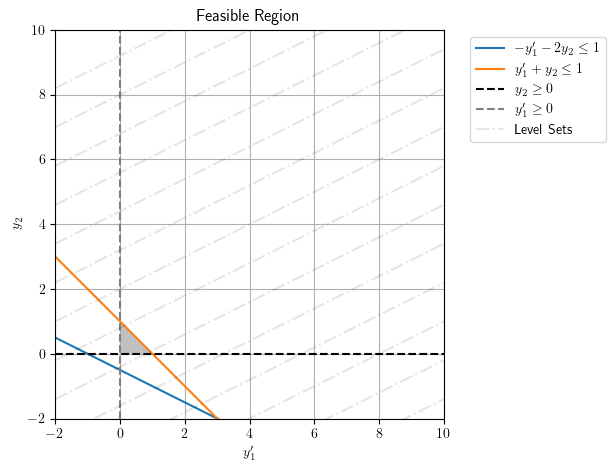
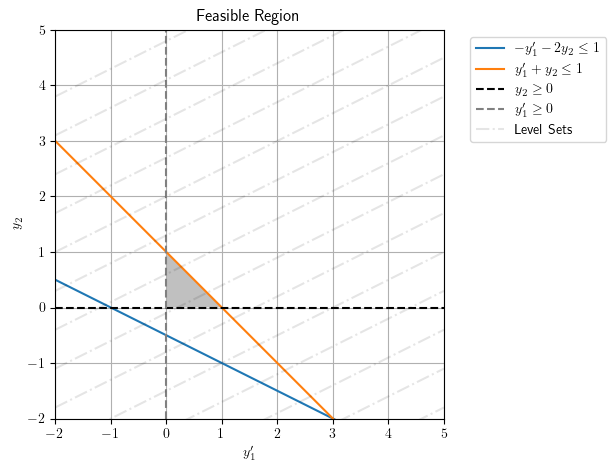
MATH5420: Completed Homework 5.

diff --git a/2023/spring/MATH5420_Optimization/Homework5/problem_5.tex b/2023/spring/MATH5420_Optimization/Homework5/problem_5.tex
@@ -14,7 +14,12 @@ duality theorem hold. Verify that the optimal dual solution satisfies $y^T = c_B
 basis matrix.
 
 \begin{solution}
-  The dual of this program is given by:
+  Since the primal is a maximization problem, the dual is a minimization problem. The first constraint in the primal
+  program is reversed from canonical form, and so the first variable $y_1$ in the dual is nonpositive. The second 
+  constraint is consistent with canonical form, and so $y_2$ in the dual is nonnegative. Both variables $x_1$ and $x_2$
+  in the primal are consistent with canonical form, and so the direction of comparison operators for the dual constaints
+  are also consistent with canonical form.
+  The dual of this program is therefore given by:
 
   \begin{mini*}
     {}{w = b^T y = y_1 + 2y_2}{}{}
@@ -24,6 +29,85 @@ basis matrix.
   \end{mini*}
   \ \\
 
-  \textbf{TODO!}
-  \vfill
+  To solve these programs graphically, we first convert the primal to the equivalent system
+
+  \begin{mini*}
+    {}{\hat{z} = -z = x_1 + x_2}{}{}
+    \addConstraint{x_1 - x_2}{\le -1}
+    \addConstraint{2x_1 - x_2}{\le 2}
+    \addConstraint{x_1, x_2}{\ge 0}.
+  \end{mini*}
+
+  which is plotted in Figure \ref{fig:problem_5_primal}. We observe that the optimal basic feasible solution is given by 
+  $x = (0, 1)^T$, which yields the optimal solution $-z = 1$. To solve the dual program graphically, we similarly 
+  convert it to an equivalent but more convenient form for graphing by letting $y'_1 = -y_1$:
+
+  \begin{figure}[h]
+    \centering
+    \includegraphics[width=0.7\textwidth]{problem_5_primal.png}
+    \caption{Feasible region and level curves for the equivalent primal program.}
+    \label{fig:problem_5_primal}
+  \end{figure}
+
+  \begin{mini*}
+    {}{w = b^T y = -y'_1 + 2y_2}{}{}
+    \addConstraint{ -y'_1 - 2y_2}{\le 1}
+    \addConstraint{  y'_1 + y_2}{\le 1}
+    \addConstraint{y'_1,}{y_2 \ge 0}.
+  \end{mini*}
+
+  We see in Figure \ref{fig:problem_5_dual} that the equivalent program is optimized at the point\linebreak
+  $(y'_1, y_2)^T = (1, 0)^T$ (and $(y_1, y_2)^T = (-1, 0)^T$, by extension). The optimal solution for the dual is 
+  thus given by $w = b^T y = y_1 + 2y_2 = -1 + 0 = z$ , as predicted by the strong duality theorem. 
+
+  \begin{figure}[h]
+    \centering
+    \includegraphics[width=0.7\textwidth]{problem_5_dual.png}
+    \caption{Feasible region and level curves for the equivalent dual program.}
+    \label{fig:problem_5_dual}
+  \end{figure}
+
+  To verify that the optimal dual solution satisfies $y^T = c_B^T B^{-1}$, we express the primal problem in standard 
+  form and solve it using the two-phase simplex method. We introduce the excess variable $x_3$ and artificial variable 
+  $x_4$ to the first constraint and slack variable $x_5$ to the second constraint. The primal problem in standard form 
+  becomes:
+
+  \begin{mini*}
+    {}{\hat{z} = -z = x_1 + x_2}{}{}
+    \addConstraint{-x_1 + x_2 - x_3 + x_4}{= 1}
+    \addConstraint{2x_1 - x_2 + x_5}{= 2}
+    \addConstraint{x_1, x_2}{\ge 0}.
+  \end{mini*}
+
+  With $x_B = (x_4, x_5)$ as our phase I feasible solution, we obtain the the initial basis
+  $x_B = (x_2, x_4)^T$ for the phase II problem. This is coincidentally the optimal basic feasible solution for the
+  second phase of the simplex method, and so we find\footnote{
+    Details for these computations may be found by running \texttt{problem\_5.py}.
+  }
+
+  $$
+  B = \begin{pmatrix}
+        -1 & 0 \\
+        -1 & 1
+      \end{pmatrix}, \quad c_B^T = \begin{pmatrix*}
+        1 \\
+        0
+      \end{pmatrix*}
+  $$
+
+  Hence we see
+  
+  \begin{align*}
+    c_B^T B^{-1} &= \begin{pmatrix*} 1 & 0 \end{pmatrix*} \begin{pmatrix*}[r]
+                      -1 & 0 \\
+                      -1 & 1
+                    \end{pmatrix*} \\
+                 &= \begin{pmatrix*}
+                      -1 & 0
+                    \end{pmatrix*} \\
+                 &= y^T 
+  \end{align*}
+        
+  as desired.
+  \ \\
 \end{solution}

diff --git a/2023/spring/MATH5420_Optimization/Homework5/problem_4.tex b/2023/spring/MATH5420_Optimization/Homework5/problem_4.tex
@@ -13,26 +13,48 @@ Find the dual of
 and verify that the dual of the dual is the primal.
 
 \begin{solution}
-  The dual of this program is given by:
+  Since the primal problem is a maximization problem, the dual is a minimization problem. The first constraint in the 
+  primal is an equality constraint, and so $y_1$ in the dual is unrestricted. The second constraint is reversed with 
+  respect to the canonical form of maximization problems, and so $y_2$ must be nonpositive. The third constraint is 
+  consistent with canonical form, and hence $y_3$ is nonnegative.
+
+  The variables $x_1$ and $x_2$ in the primal are consistent with canonical form, and so the first two constraints in
+  dual must also be consistent with canonical form for the dual minimization problem. The third variable $x_3$ is 
+  nonpositive and so the third constraint in the dual must be reversed. The fourth variable $x_4$ is unrestricted which
+  yields an equality constraint for the final constraint in the dual.
+
+  The dual of this program is therefore given by:
 
   \begin{mini*}
     {}{w = b^T y = 11y_1 + 23y_2 + 12y_3}{}{}
-    \addConstraint{ 4y_1 + 3y_2 + 7y_3}{\ge 6}
-    \addConstraint{ 3y_1 + 2y_2 + 4y_3}{\ge  -3}
-    \addConstraint{-8y_1 + 7y_2 + 3y_3}{\le -2}
-    \addConstraint{ 7y_1 + 6y_2 + 2y_3}{= 5}
-    \addConstraint{y_2 \le 0, y_3 \ge 0, \,}{y_1 \; \text{unrestricted}}.
+    \addConstraint{A_1^T y =  4y_1 + 3y_2 + 7y_3}{\ge 6 = c_1}
+    \addConstraint{A_2^T y =  3y_1 + 2y_2 + 4y_3}{\ge -3 = c_2}
+    \addConstraint{A_3^T y = -8y_1 + 7y_2 + 3y_3}{\le -2 = c_3}
+    \addConstraint{A_4^T y =  7y_1 + 6y_2 + 2y_3}{= 5 = c_4}
+    \addConstraint{y_1 \; \text{unrestricted}, \; y_2 \le 0, \;}{y_3 \ge 0}.
   \end{mini*}
   \ \\
-  The dual of the dual is given by:
+
+  Because the dual is a minimization problem, the dual of the dual is a maximization problem. Since $y_1$ is 
+  unrestricted, the first constraint in the dual of the dual is an equality constraint. The second variable $y_2$ in the
+  dual is nonpositive, and so the second constraint in the dual of the dual is reversed from canonical form. The third 
+  variable $y_3$ in the dual is nonnegative, and hence the final constraint in the dual of the dual is consistent with
+  canonical form.
+
+  The first two constraints of the dual are consistent with canonical form, and so the first two variables $x'_1$ and 
+  $x'_2$ in the dual of the dual are nonnegative. Conversely, the third constraint of the dual is opposite canonical
+  and so $x'_3$ in the dual of the dual is nonpositive. Since the fourth constraint in the dual is an equality 
+  constraint, $x'_4$ is unrestricted. Putting this all together, taking the transpose of the coefficients, and swapping
+  the roles of $b$ and $c$ yields:
 
   \begin{maxi*}
-    {}{z = 6x_1 - 3x_2 - 2x_3 + 5x_4}{}{}
-    \addConstraint{4x_1 + 3x_2 - 8x_3 + 7x_4}{= 11}
-    \addConstraint{3x_1 + 2x_2 + 7x_3 + 6x_4}{\ge 23}
-    \addConstraint{7x_1 + 4x_2 + 3x_3 + 2x_4}{\le 12}
-    \addConstraint{x_1, x_2 \ge 0,\; x_3 \le 0, \,}{x_4 \; \text{unrestricted}}
+    {}{z = 6x'_1 - 3x'_2 - 2x'_3 + 5x'_4}{}{}
+    \addConstraint{4x'_1 + 3x'_2 - 8x'_3 + 7x'_4}{= 11}
+    \addConstraint{3x'_1 + 2x'_2 + 7x'_3 + 6x'_4}{\ge 23}
+    \addConstraint{7x'_1 + 4x'_2 + 3x'_3 + 2x'_4}{\le 12}
+    \addConstraint{x'_1, x'_2 \ge 0,\; x_3 \le 0, \,}{x'_4 \; \text{unrestricted}}
   \end{maxi*}
 
-  \textbf{TODO?}
+  which is precisely the primal problem.
+  \ \\
 \end{solution}

diff --git a/2023/spring/MATH5420_Optimization/Homework5/problem_5.py b/2023/spring/MATH5420_Optimization/Homework5/problem_5.py
@@ -35,6 +35,8 @@ init = np.array((
 feasible_basis = simplex_algorithm(A, b, c, init, artificial_variables=[4])
 if feasible_basis:
     xNi, xBi, xB, z = feasible_basis
+    print('\n\n[PRIMAL Phase I] Initial basic feasible solution:')
+    print('z = {}'.format(z))
     print('Entering basis is xb = {}'.format(xBi + 1))
 else:
     raise Exception('Problem is infeasible!')
@@ -64,21 +66,21 @@ plot_2d_region(
     A,
     b,
     c[0:2],
-    xlims=(-2, 10),
-    ylims=(-2, 10),
+    xlims=(-2, 5),
+    ylims=(-2, 5),
     usetex=True,
     legend=True,
     savefile='problem_5_primal.png',
 )
 
-optimal_basis = simplex_algorithm(A, b, c, init)
+optimal_basis = simplex_algorithm(A, b, c, init, verbose=True)
 
 if optimal_basis:
     xNi, xBi, xB, z = optimal_basis
     optimal_point = np.zeros(c.shape)
     optimal_point[xBi] = xB
 
-    print('\n\n[PRIMAL] Optimal basic feasible solution:')
+    print('\n\n[PRIMAL Phase II] Optimal basic feasible solution:')
     print('xb = {}'.format(xBi + 1))
     print('xn = {}'.format(xNi + 1))
     print('optimal point = {}'.format(optimal_point))
@@ -115,8 +117,8 @@ plot_2d_region(
     A,
     b,
     c[0:2],
-    xlims=(-2, 10),
-    ylims=(-2, 10),
+    xlims=(-2, 5),
+    ylims=(-2, 5),
     usetex=True,
     legend=True,
     savefile='problem_5_dual.png',

diff --git a/2023/spring/MATH5420_Optimization/Homework5/problem_3.tex b/2023/spring/MATH5420_Optimization/Homework5/problem_3.tex
@@ -14,15 +14,19 @@ Find the dual of
 \begin{solution}
   \ \\
 
-  The dual of this program is given by:
+  Since the primal problem is a minimization problem, the dual is a maximization problem. Moreover, since all
+  constraints are equalities in the primal, each $y_i$ in the dual is unrestricted. Lastly, since each $x_i$ is 
+  consistent with the canonical form of the primal problem, all inequality constraints in the agree with the canonical 
+  dual problem.
 
-  \begin{mini*}
+  More concretely, the dual of this program is given by:
+
+  \begin{maxi*}
     {}{w = b^T y = 5y_1 + 7y_2 + 9y_3}{}{}
-    \addConstraint{9y_1 + 3y_2 + 7y_3}{\le -2}
-    \addConstraint{-2y_1 + 3y_2 - 5y_3}{\le  4}
-    \addConstraint{-8y_1 - 3y_2 + 2y_3}{\le -3}
+    \addConstraint{A_1^T y = 9y_1 + 3y_2 + 7y_3}{\le -2 = c_1}
+    \addConstraint{A_2^T y = -2y_1 + 3y_2 - 5y_3}{\le  4 = c_2}
+    \addConstraint{A_3^T y = -8y_1 + 3y_2 + 2y_3}{\le -3 = c_3}
     \addConstraint{y_1, y_2, y_3}{\quad \text{unrestricted}}.
-  \end{mini*}
-
-  \textbf{TODO?}
+  \end{maxi*}
+  \ \\
 \end{solution}

diff --git a/2023/spring/MATH5420_Optimization/Homework5/problem_9iii.tex b/2023/spring/MATH5420_Optimization/Homework5/problem_9iii.tex
@@ -55,8 +55,8 @@ What would the new solution be if the coefficient of $x_1$ in the objective were
   Increasing the coefficient of $x_1$ in the objective function (i.e., letting $\delta = 2$) yields 
   $\bar{z}^+ = -13 + 6 = -7$, and decreasing the coefficient by two ($\delta = -2$) yields $\bar{z}^- = -13 - 6 = -19$.
   \footnote{
-    The resulting values for $x_B$ are computed in \texttt{problem\_9iii\_increase.py} and 
-    \texttt{problem\_9iii\_decrease.py} for the interested reader.
+    As in (ii), corresponding values for $x_B$ are computed in \texttt{problem\_9iii\_increase.py} and 
+    \texttt{problem\_9iii\_decrease.py}.
   }
   \ \\
   \vfill

diff --git a/2023/spring/MATH5420_Optimization/Homework5/problem_2a.tex b/2023/spring/MATH5420_Optimization/Homework5/problem_2a.tex
@@ -26,8 +26,7 @@ via the two-phase method.
   $x_B = (x_3, x_4)^T$ which corresponds to the basic feasible solution $x = \left(0, 0, 10, 0, 0\right)^T$ (and yields 
   $z' = 0$, as desired).
  
-  With $x_B$ as our initial basis for the original problem, the simplex algorithm yields the optimal solution 
-  $z = -160$ with $x_B = (x_1, x_4)$ at the point \linebreak
-  $x = (40, 0, 0, -50)^T$.
+  With $x_B$ as our initial basis for the original problem, a second application of the simplex algorithm yields the 
+  optimal solution $z = -160$ with $x_B = (x_1, x_4)$ at the point $x = (40, 0, 0, -50)^T$.
   \ \\
 \end{solution}

diff --git a/2023/spring/MATH5420_Optimization/Homework5/settings.tex b/2023/spring/MATH5420_Optimization/Homework5/settings.tex
@@ -28,18 +28,3 @@
   \begin{proof}[Solution]}
   {\end{proof}}
 \renewcommand\qedsymbol{$\blacksquare$}
-
-\def\mygraphpaper{%
-  \begin{tikzpicture}
-    \draw[line width=.4pt,draw=black!30] (0,0) grid[step=4mm] (\paperwidth,\paperheight);
-    \draw[line width=.4pt,draw=black!50] (0,0) grid[step=2cm] (\paperwidth,\paperheight);
-  \end{tikzpicture}%
-}
-\usepackage{tikz}
-\usepackage{background}
-\backgroundsetup{
-  angle=0,
-  contents=\mygraphpaper,
-  color=black,
-  scale=1,
-}

diff --git a/2023/spring/MATH5420_Optimization/Homework5/problem_9i.tex b/2023/spring/MATH5420_Optimization/Homework5/problem_9i.tex
@@ -40,6 +40,6 @@ By how much can the right-hand side of the first constraint change before the cu
   \end{pmatrix*}.
   $$
 
-  Since $B^{-1}\bar{b} \ge 0$ so long as $\delta \ge -3$, the current basis remains feasible so long as $b_1 \ge -1$.
+  Since $B^{-1}\bar{b} \ge 0$ whenever $\delta \ge -3$, the current basis remains feasible so long as $b_1 \ge -1$.
   \ \\
 \end{solution}
